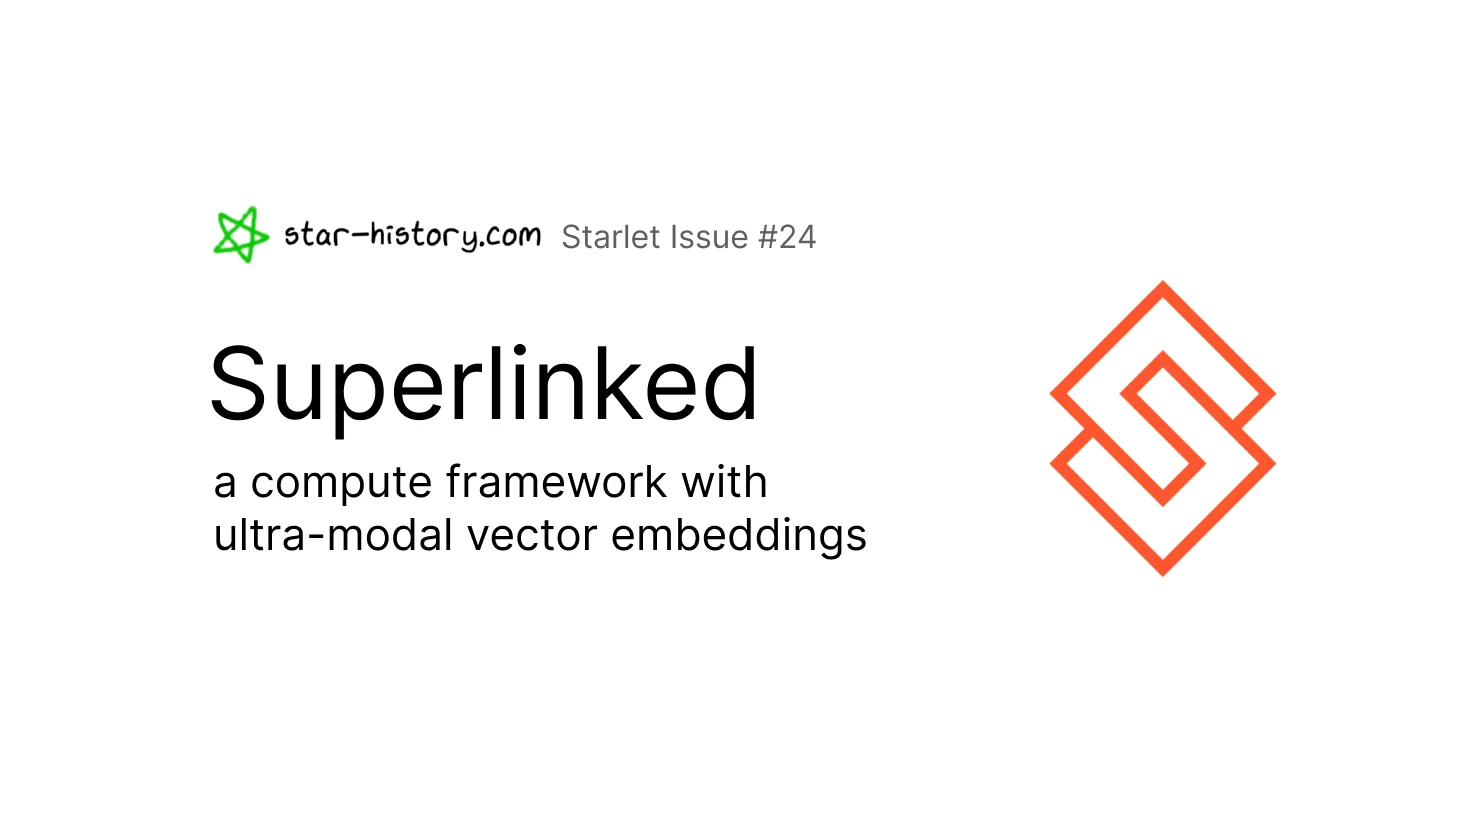
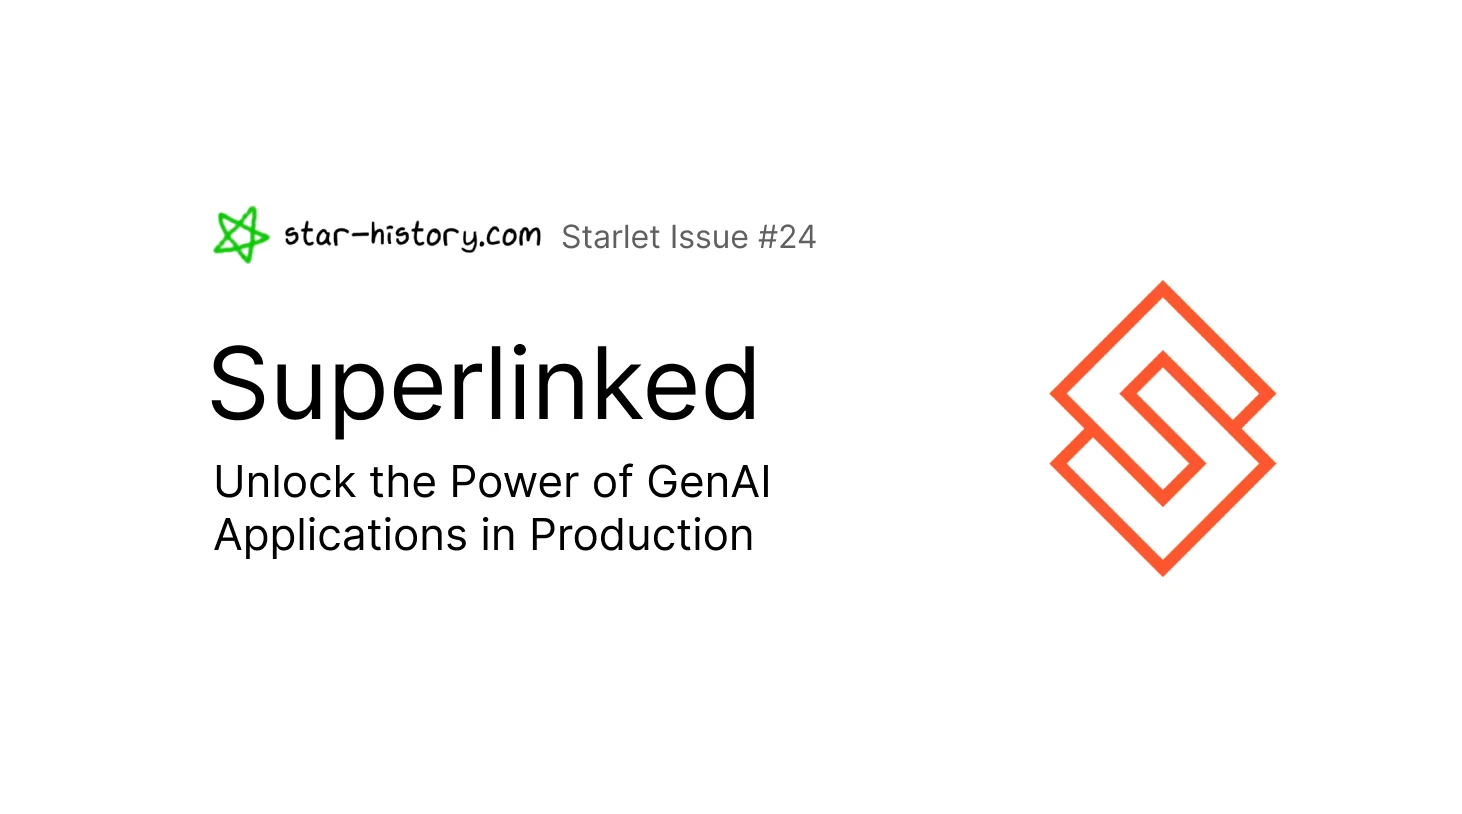
docs: starlet issue #24 update

Changed region(s): [[0.1231, 0.5528, 0.5233, 0.6143], [0.1231, 0.645, 0.6156, 0.6757]]

diff --git a/star-history/public/blog/superlinked.md b/star-history/public/blog/superlinked.md
@@ -1,0 +1,38 @@
+# Superlinked: Unlock the Power of GenAI Applications in Production
+
+[Superlinked](https://www.superlinked.com/?utm_source=StarHistory&utm_medium=referral&utm_campaign=Starlet_AUG_2024) is an open-source vector compute framework for your information retrieval and feature engineering systems, focused on turning complex (structured+unstructured) data into ultra-modal vector embeddings within your RAG, Search, Recommendations and Analytics stack. Integrate Superlinked into your machine learning stack to achieve custom model performance with pre-trained model convenience.
+
+![Example query requiring structured and unstructured data](/assets/blog/superlinked/example_query.webp)
+
+
+## The Challenge of Structured Data in GenAI Applications 
+
+Structured data is the backbone of most internal and customer-facing enterprise systems. Consider a Q&A chatbot of a financial analyst - we would expect it to understand that the analyst refers to “recent” or “at risk” reports from a particular range of dates, or a recommender system of an e-commerce store - we would expect it to recommend similarly priced or popular products to the product that the customer is currently viewing, in real-time. Unfortunately, traditional GenAI models struggle with numbers, timestamps and categorical data - let alone more complex data structures like time series or graphs. Their strength lies in processing and understanding certain types of unstructured data like text and images, but they falter with structured data, treating important attributes of the data, such as product prices, document dates, store locations, and content categories as if they were merely text. This mismatch often leads to tech teams discovering that their applications deliver subpar results.
+
+In response, many teams attempt to develop and train custom re-ranking models tailored to their specific needs. However, this is a daunting task, which requires significant expertise, time, and resources—luxuries that many enterprises cannot afford. Consequently, most GenAI-powered solutions remain stuck in the proof of concept phase, unable to realize their full potential.
+
+
+## Superlinked: Bridging the Gap Between Structured and Unstructured Data
+
+Superlinked’s vector compute [framework](https://github.com/superlinked/superlinked) is a game-changer for data science teams. It enables the creation of custom vector embeddings that seamlessly integrate structured and unstructured data into the same vector space. This unique approach allows enterprises to use vector search to deliver results that take into account both data types, effectively tailoring GenAI models to their specific use cases. The result combines the high-quality performance of a custom model with the convenience of pre-trained GenAI models, offering a significant boost in time-to-market and explainability of the results.
+
+![Overview of superlinked framework](/assets/blog/superlinked/superlinked_framework.webp)
+
+
+## Take your GenAI Apps from POCs to Production with Superlinked
+
+Developing your GenAI applications with Superlinked you’ll be able to:
+
+- **Build & launch faster:** From notebook to production in a week with a single declarative framework
+- **4 use-cases, 1 solution:** Use one solution for consistent results in RAG, RecSys, Search & Analytics w/o work & compute duplication
+- **Improve retrieval quality:** Use more data to boost relevance and multi-encoder approach for improved control and explainability
+- **Improve efficiency & cost:** Switch Vector DBs without changing your application code, manage streaming & batch updates in a unified solution with partial vector updates
+
+
+## Getting Started with Superlinked
+
+Start by exploring Superlinked’s [example notebooks](https://github.com/superlinked/superlinked?tab=readme-ov-file#use-cases) to get yourself familiar with the framework, and check out the deployable [Server](https://github.com/superlinked/superlinked/tree/main/server) solution that comes with native integrations to Redis Vector Search and MongoDB Atlas.
+
+New to vector search? Learn more about building high-performance vector-powered applications at [VectorHub](https://superlinked.com/vectorhub/) - a free and community-run learning hub for people interested in adding vector retrieval to their ML stack.
+
+Don’t hesitate getting in touch with us by e-mail: contact (at) superlinked.com.
